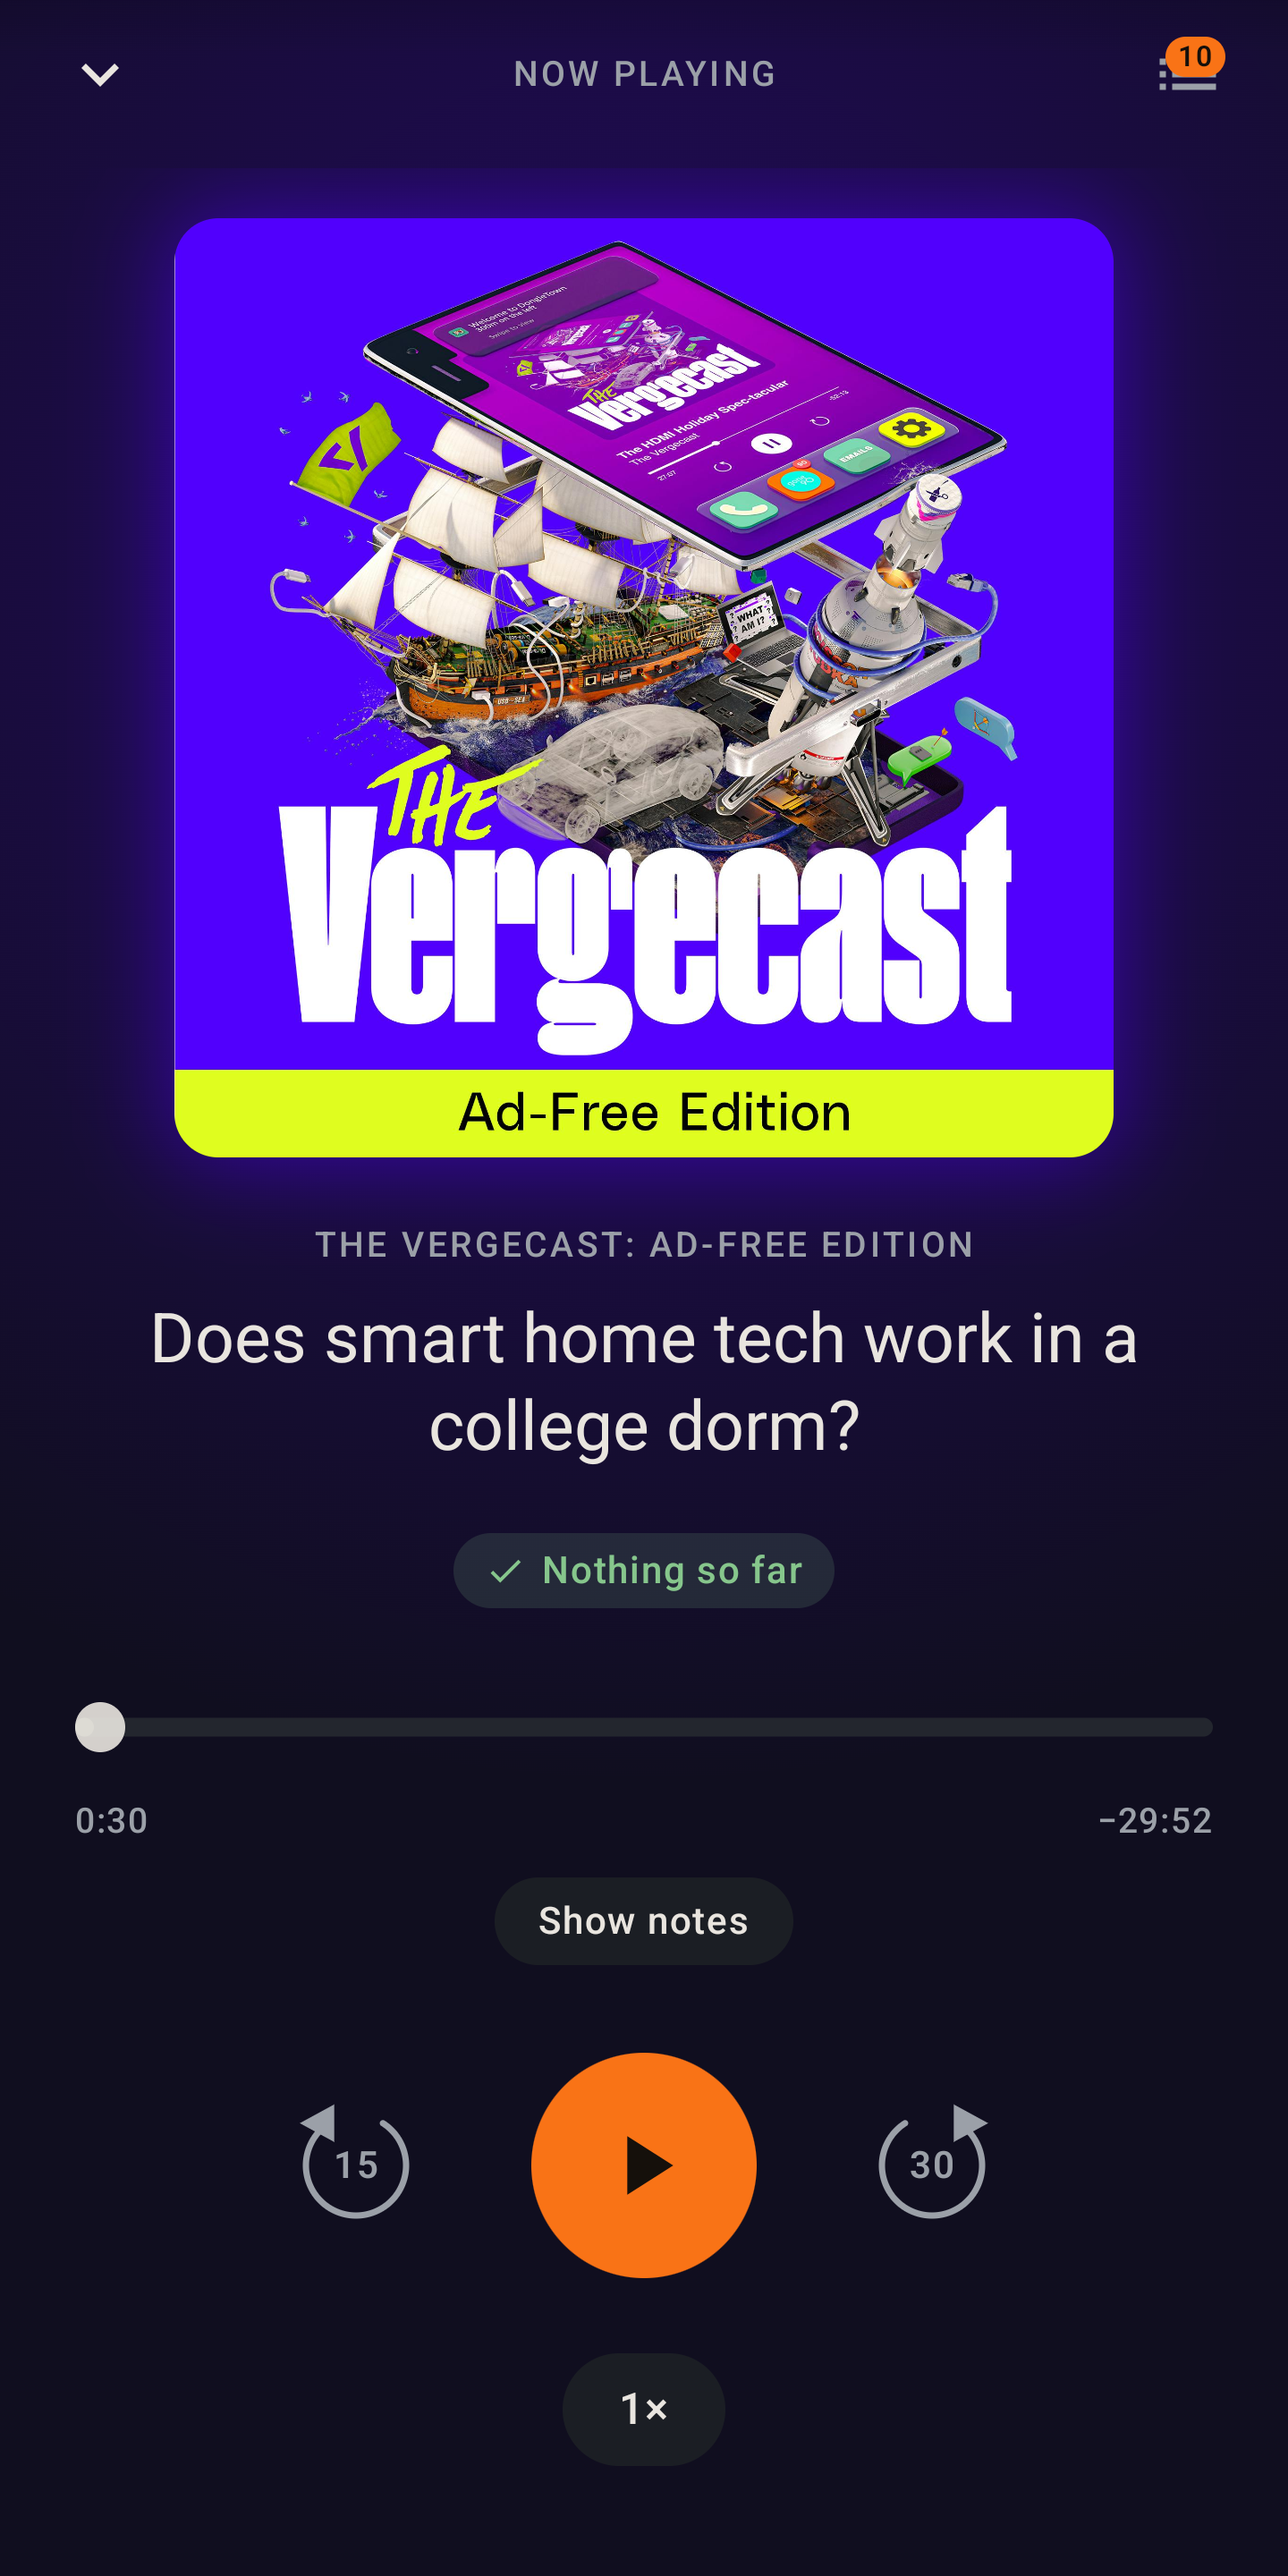
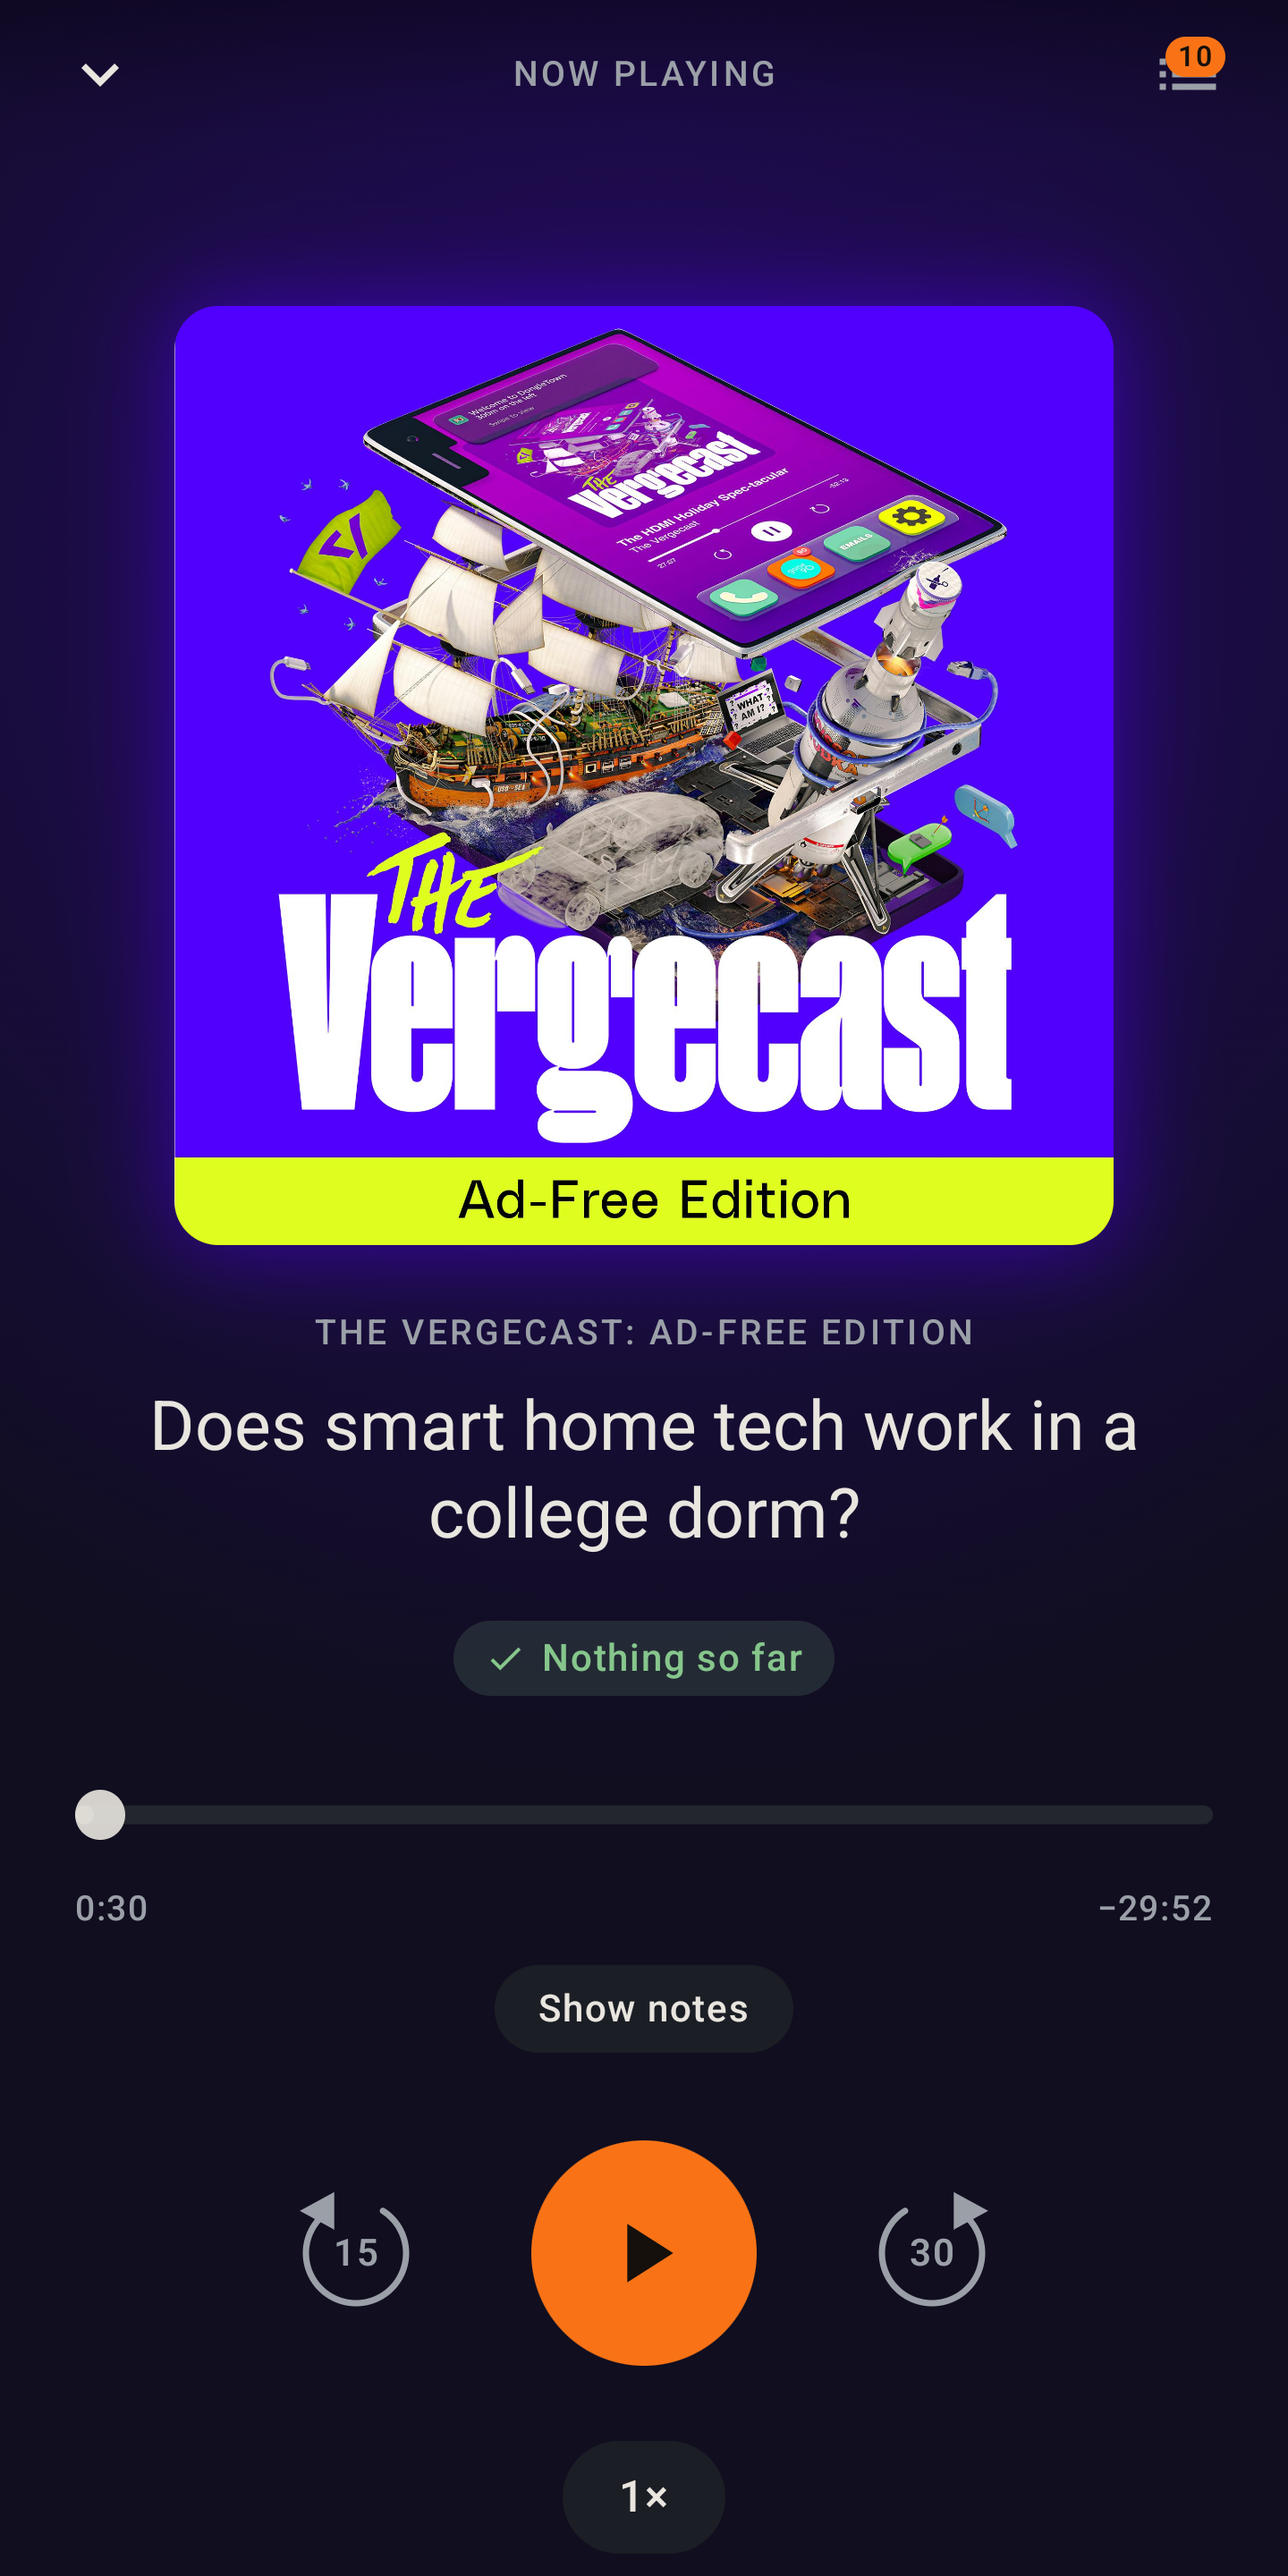
The line was the halo, clipped by the scroll edge
The remaining line was not the scrim at all. The artwork's halo is a blurred
rounded rect, and a blur spreads well past the shape it came from — about
27dp here. The artwork sits inside a verticalScroll, which clips, and only
16dp of room stood above it. The halo's upward spread hit that clip and
stopped dead across the full width. Giving the artwork enough room above it
that the spread lands inside the viewport removes the line.

Measured directly above the artwork: before, brightness ran 23 to 53 across
that band with a +0.67 step at the clip row; after, 22 to 25 with no step.

The scrim is eased rather than linear now too. That change came from the
wrong diagnosis — a linear ramp ending abruptly can read as a Mach band, and
it did not turn out to be what was happening here — but it is still the
better gradient, so it stays.

Known limit: scrolling the player pulls the artwork back toward the clip
edge and the halo will meet it again. That reads as content moving under a
boundary rather than a line drawn across the sheet, and the screen does not
scroll at rest on a normal phone.

Hero store screenshot re-shot.

diff --git a/kmp/androidApp/src/main/java/app/filterpod/ui/player/ArtGlow.kt b/kmp/androidApp/src/main/java/app/filterpod/ui/player/ArtGlow.kt
@@ -79,19 +79,27 @@ private suspend fun extractGlowColor(
  * Darkens the very top of the sheet, fading to nothing.
  *
  * The status bar needs contrast against whatever colour the artwork happens to be, but
- * stopping the glow at the inset boundary drew a hard horizontal line across the sheet.
- * The glow now runs full-bleed to the top edge and this shades the strip the clock sits
- * in, so the transition is a gradient rather than a cut.
+ * stopping the glow at the inset boundary drew a hard line across the sheet. The glow
+ * now runs full-bleed to the top edge and this shades the strip the clock sits in.
+ *
+ * The stops follow a smoothstep rather than a straight ramp, and that is the whole
+ * trick: a linear gradient reaches zero with its slope still constant, and the eye
+ * reads that abrupt change in slope as an edge even though no pixel jumps — a Mach
+ * band. Easing the last stretch to zero removes the line without darkening any less
+ * where it counts.
  */
 fun Modifier.topShade(height: Dp): Modifier = drawBehind {
     val end = height.toPx()
     if (end <= 0f) return@drawBehind
+    val peak = 0.42f
+    val stops = Array(9) { i ->
+        val t = i / 8f
+        // smootherstep: zero first and second derivative at both ends
+        val eased = 1f - (t * t * t * (t * (t * 6f - 15f) + 10f))
+        t to Color.Black.copy(alpha = peak * eased)
+    }
     drawRect(
-        brush = Brush.verticalGradient(
-            colors = listOf(Color.Black.copy(alpha = 0.38f), Color.Transparent),
-            startY = 0f,
-            endY = end,
-        ),
+        brush = Brush.verticalGradient(colorStops = stops, startY = 0f, endY = end),
         size = androidx.compose.ui.geometry.Size(size.width, end),
     )
 }

diff --git a/kmp/androidApp/src/main/java/app/filterpod/ui/player/PlayerUi.kt b/kmp/androidApp/src/main/java/app/filterpod/ui/player/PlayerUi.kt
@@ -221,7 +221,7 @@ fun NowPlayingScreen(
             Modifier
                 .fillMaxSize()
                 .artGlowBackground(glowColor)
-                .topShade(statusBarHeight + 24.dp)
+                .topShade(statusBarHeight + 72.dp)
                 .statusBarsPadding(),
         ) {
             // Header strip: always drag-dismissable — the part people reach for.
@@ -254,7 +254,7 @@ fun NowPlayingScreen(
             ) {
                 Box(
                     Modifier
-                        .padding(top = 16.dp)
+                        .padding(top = 44.dp)
                         .widthIn(max = 300.dp)
                         .artHaloGlow(glowColor)
                         .then(dragDismiss),
